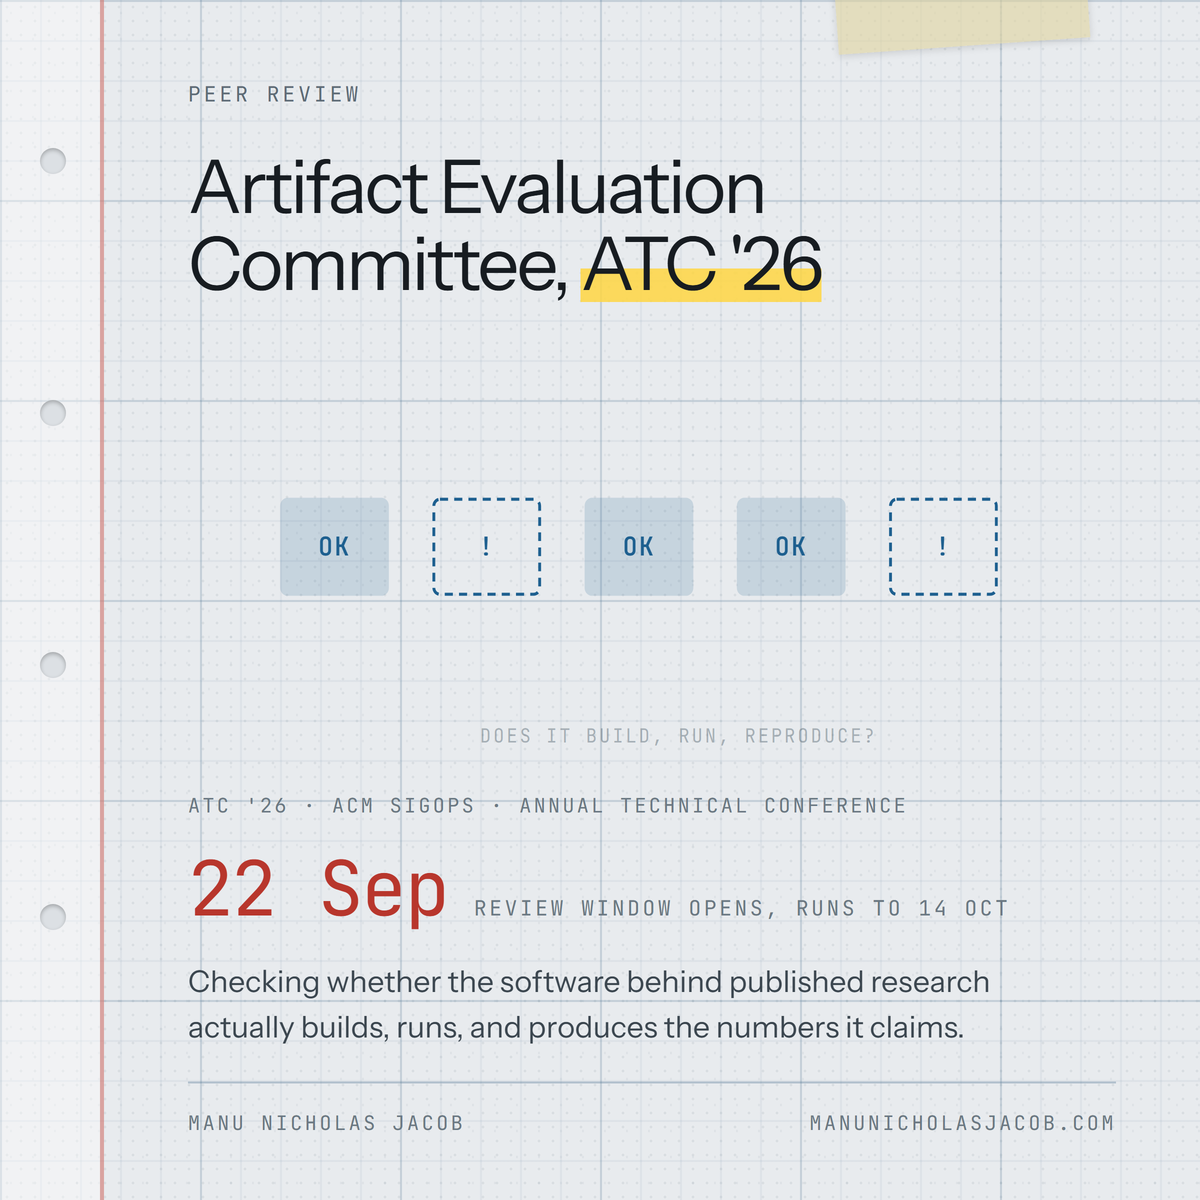
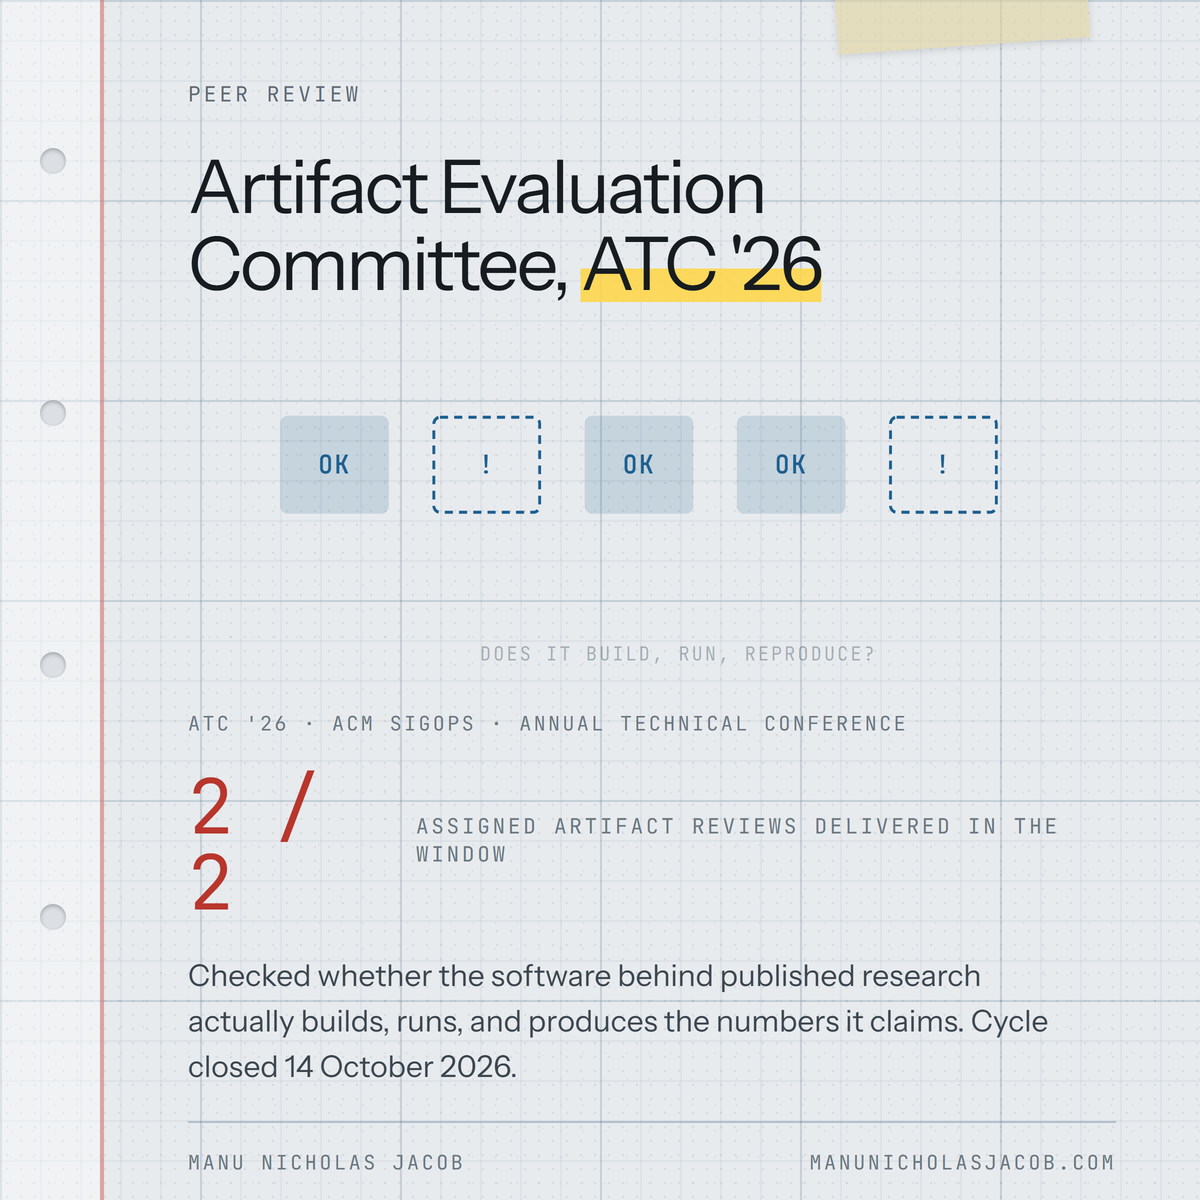
The design pass: paper surface, a tiered projects page, quieter back pages
The engineering-notebook paper the campaign cards are drawn on becomes a
real page surface: a section-paper tone that re-scopes the site tokens, so
the homepage code section now sits on light grid paper in both themes,
with a pip install llama-roofline strip and copy button closing it.
/projects gains a sticky section index and sheds a third of its sameness:
featured artifacts keep full cards while the long tail collapses to index
rows, and the one-PR upstream repos become a ledger with per-PR chips,
leaving full cards to the three story-sized contributions. The secondary
pages (now, tools, talks, writing) drop the full-bleed opening formula for
a compact header with one line of real facts, so the flagship openings
mean something again. The footer groups eleven flat links into Work and
Meta, the writing index gains row numbers, the roofline caption drops from
five sentences to two without losing the 107 percent honesty note, the
hand-off labels all speak one pattern, and the ATC notebook card is
re-rendered as the completed cycle it now is.

diff --git a/src/data/projects.ts b/src/data/projects.ts
@@ -64,12 +64,15 @@ export type Repo = {
   stack: string[];
   url: string;
   doi?: string;
+  /** Full card on /projects; everything else renders as an index row. */
+  featured?: boolean;
   kind: 'artifact' | 'tool' | 'lab';
 };
 
 export const repos: Repo[] = [
   {
     slug: 'llm-collusion-lever-costs',
+    featured: true,
     name: 'llm-collusion-lever-costs',
     blurb:
       'What anti-collusion levers cost in a simulated LLM seller market: a warning notice, a communications ban, an oversight monitor and a no-regret competitor, each measured against buyer welfare rather than assumed to be free. 30 report numbers recomputed from the raw runs by a claim checker before submission.',
@@ -91,6 +94,7 @@ export const repos: Repo[] = [
   // One artifact card is withheld for now; see the note in research.ts.
   {
     slug: 'qgemv-roofline',
+    featured: true,
     name: 'qgemv-roofline',
     blurb:
       'A quantized GEMV kernel ladder measured against its own bandwidth roof: 12 CUDA kernels plus Triton for batch-1 LLM decode, on five NVIDIA GPUs from sm_60 to sm_89.',
@@ -101,6 +105,7 @@ export const repos: Repo[] = [
   },
   {
     slug: 'rpi5-quantization-benchmark',
+    featured: true,
     name: 'rpi5-quantization-benchmark',
     blurb:
       'INT8 latency and energy measurements for nine networks on a Raspberry Pi 5 (Cortex-A76), released as raw records.',
@@ -165,6 +170,7 @@ export const repos: Repo[] = [
   },
   {
     slug: 'edge-format-tax',
+    featured: true,
     name: 'edge-format-tax',
     blurb:
       'Matched-byte comparison of GGUF quantization formats on three CPU microarchitectures, with per-token energy from the Pi 5 PMIC. The label on the file turns out to be a poor predictor of what it costs to run.',
@@ -356,12 +362,15 @@ export type Upstream = {
   org: string;
   why: string;
   /** Merged ones lead the list. Verified against the GitHub API before listing. */
+  /** Full card on /projects; the one-PR repos render in the ledger. */
+  featured?: boolean;
   prs: { number: number; title: string; url: string; merged?: boolean }[];
 };
 
 export const upstream: Upstream[] = [
   {
     project: 'AIPerf',
+    featured: true,
     org: 'ai-dynamo',
     why: 'The NVIDIA Dynamo benchmarking tool for LLM inference. Telemetry work from the same measurement habits: host and CPU power collection, NVML energy counters, AMD GPU telemetry, and packaging fixes.',
     prs: [
@@ -457,6 +466,7 @@ export const upstream: Upstream[] = [
   },
   {
     project: 'garak',
+    featured: true,
     org: 'NVIDIA',
     why: 'NVIDIA’s LLM vulnerability scanner. Correctness fixes found by reading the code the way a root-cause engineer reads a failing system.',
     prs: [
@@ -502,6 +512,7 @@ export const upstream: Upstream[] = [
   },
   {
     project: 'Arm Learning Paths',
+    featured: true,
     org: 'ArmDeveloperEcosystem',
     why: "Arm's official developer tutorials. Two new Learning Paths: measuring whether LLM decode is memory-bound on an Arm CPU, and measuring llama.cpp energy per token on a Raspberry Pi 5 from the on-board PMIC.",
     prs: [

diff --git a/src/styles/global.css b/src/styles/global.css
@@ -269,6 +269,43 @@ html:not(.js) .hl-draw {
   border-top: 0;
 }
 
+/*
+  The paper band: the engineering-notebook surface the campaign cards are
+  drawn on, promoted from an embedded image to an actual page surface. It
+  re-scopes the site tokens, so cards, tags, buttons and links inside
+  restyle themselves without knowing they are on paper. Deliberately the
+  same in both themes: paper is paper. Accent matches the light theme's
+  (4.5:1 on this ground); faint text sits at 4.6:1.
+*/
+.section-paper {
+  --bg: #e9ecee;
+  --bg-raised: #e2e6ea;
+  --surface: rgb(70 110 140 / 0.055);
+  --surface-hover: rgb(70 110 140 / 0.1);
+  --fg: #171c21;
+  --fg-muted: #3b464f;
+  --fg-faint: #5d6b76;
+  --hairline: rgb(70 110 140 / 0.3);
+  --hairline-strong: rgb(70 110 140 / 0.5);
+  --accent: #a8530a;
+  --accent-rgb: 168 83 10;
+  --on-accent: #ffffff;
+  color: var(--fg);
+  background-color: #e9ecee;
+  background-image:
+    linear-gradient(rgb(70 110 140 / 0.13) 1px, transparent 1px),
+    linear-gradient(90deg, rgb(70 110 140 / 0.13) 1px, transparent 1px),
+    linear-gradient(rgb(70 110 140 / 0.05) 1px, transparent 1px),
+    linear-gradient(90deg, rgb(70 110 140 / 0.05) 1px, transparent 1px);
+  background-size:
+    100px 100px,
+    100px 100px,
+    20px 20px,
+    20px 20px;
+  border-top: 1px solid rgb(70 110 140 / 0.35);
+  border-bottom: 1px solid rgb(70 110 140 / 0.35);
+}
+
 /* Cursor spotlight on interactive cards. Pointer position arrives via CSS
    variables set by a delegated listener in Base; hover-capable devices only.
    The gradient is faint on purpose: light falling on brushed metal, not neon. */
